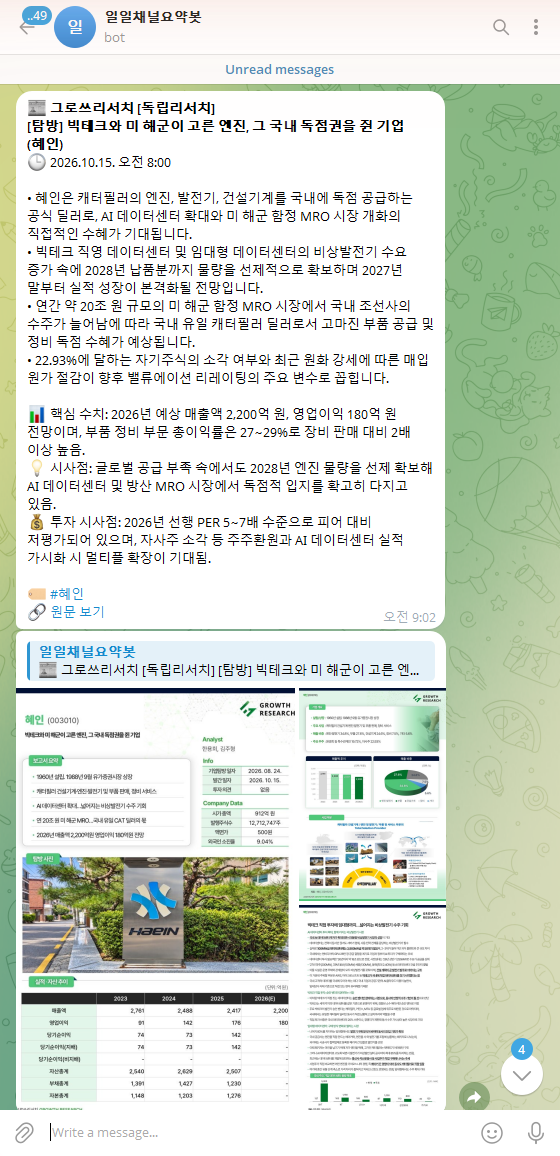
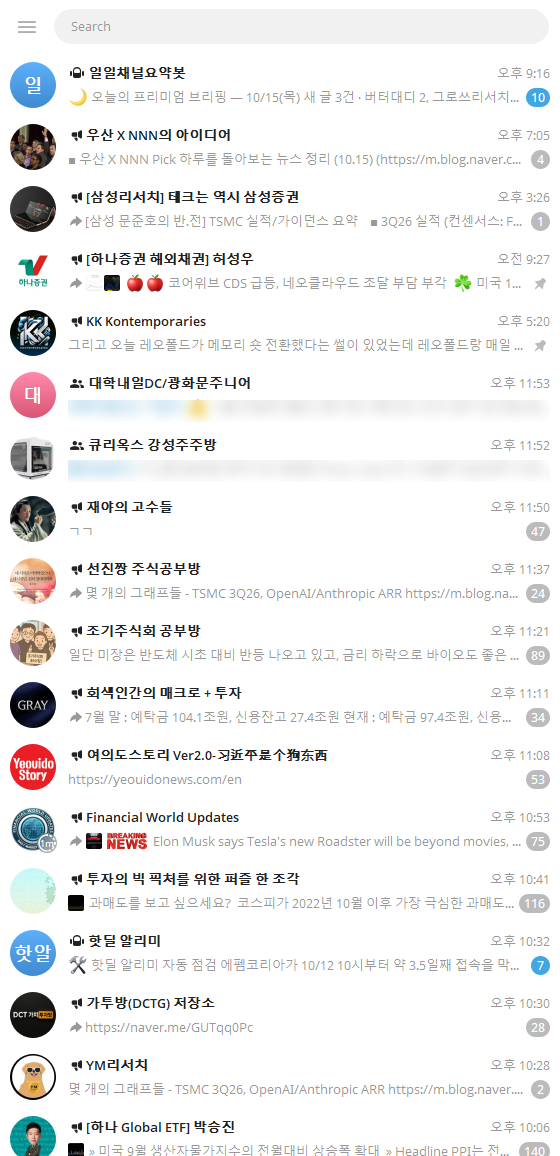
출근길 캡처 확대(채널 목록·글 목록 스크롤), 빈 장 채우기, 4부 요약봇 장 추가

diff --git a/slides.html b/slides.html
@@ -326,6 +326,69 @@ ul.bad li::before{background:var(--up)}
 .video .screen iframe{position:absolute;inset:0;width:100%;height:100%;border:0;border-radius:18px}
 
 /* 화면 클릭 안내 */
+/* 빈 공간 줄이기: 카드가 남는 높이를 채우고 글자를 키움 */
+.grow.grid2,.grow.grid3,.grow.grid4,.phases.grow,.axes.grow,.asks.grow{align-content:stretch!important}
+.grow>.card{justify-content:center;gap:18px;padding:40px 44px}
+.card h3{font-size:40px}
+.card p{font-size:30px}
+.card ul.clean li{font-size:30px}
+.card .ico.xl,.ph .ico.xl{width:88px;height:88px;padding:18px;border-radius:20px}
+.role .n{font-size:26px}
+.phases .ph{justify-content:center;gap:22px}
+.phases .ph .ico.xl{width:96px;height:96px}
+.phases .when{font-size:32px}
+.bigq h3{font-size:46px}
+.guests{grid-template-columns:repeat(5,120px);gap:20px}
+.guests .g{width:120px;height:120px;font-size:48px}
+.rules ul.clean li{font-size:32px}
+.flow.big3{flex:1;align-items:stretch;align-content:stretch;grid-template-rows:1fr}
+.flow.big3 .step{display:flex;flex-direction:column;align-items:center;justify-content:center;text-align:center;gap:16px}
+.flow.big3 .step .n{width:96px;height:96px;font-size:40px}
+.flow.big3 .step b{font-size:40px}
+.flow.big3 .step span{font-size:26px;line-height:1.45}
+.stmt h1{font-size:64px}
+.flow.big3 .step{padding:40px 32px;grid-template-columns:64px 1fr;row-gap:10px}
+.flow.big3 .step .n{width:64px;height:64px;font-size:28px}
+.flow.big3 .step b{font-size:36px}
+.flow.big3 .step span{font-size:24px}
+.have{font-size:34px;padding:18px 0}
+.tile{font-size:28px;padding:24px}
+.tiles{gap:18px;flex:1;align-content:stretch}
+.axis{justify-content:center}
+.asks .bubble{font-size:30px;padding:22px 28px}
+.asks .col{justify-content:center}
+.chat .bub{font-size:48px}
+.prompt{font-size:24px}
+/* 강조 문장 장: 오른쪽 큰 그림 */
+.stmt{padding-right:640px}
+.stmt .deco{position:absolute;right:120px;top:50%;width:440px;height:440px;margin-top:-250px;border-radius:50%;background:var(--card);border:1px solid var(--line);display:flex;align-items:center;justify-content:center}
+.stmt .deco .ico{width:220px;height:220px;color:var(--up)}
+.stmt .deco .ico svg{stroke-width:1.4}
+/* 출근길 */
+.commute{gap:48px}
+.commute .text{gap:30px}
+.commute ul.clean li{font-size:28px}
+.commute .phones{gap:40px}
+.phone .scr{width:340px;height:700px;border-radius:44px}
+.phone .scr img{border-radius:32px}
+.phone .scr.reel img{height:auto;object-fit:initial;animation:reel 45s ease-in-out 1s infinite alternate}
+@keyframes reel{from{transform:translateY(0)}to{transform:translateY(var(--reel,-1200px))}}
+@media (prefers-reduced-motion:reduce){.phone .scr.reel img{animation:none}}
+/* 요약봇 */
+.botslide{flex-direction:row;align-items:center;gap:72px}
+.botslide .left{flex:1;display:flex;flex-direction:column;gap:28px;min-width:0}
+.pipe{display:flex;flex-direction:column;gap:6px}
+.pp{display:flex;align-items:center;gap:22px;background:var(--card);border:1px solid var(--line);border-radius:14px;padding:20px 26px}
+.pp.hot{border:2px solid var(--up)}
+.pp>div{display:flex;flex-direction:column;gap:4px}
+.pp b{font-size:30px}
+.pp span:not(.ico){font-size:22px;color:var(--muted)}
+.pp .ico{color:var(--down)}
+.pp .ico.up{color:var(--up)}
+.arr{font-size:28px;color:var(--muted);text-align:center;line-height:1}
+.botslide .phone .scr{position:relative;width:310px;height:620px}
+.hl-row{position:absolute;left:10px;right:10px;top:36px;height:32px;border:4px solid var(--up);border-radius:14px;box-shadow:0 0 0 9999px rgba(13,27,46,.35)}
+
 .help{position:fixed;left:16px;bottom:12px;font:13px var(--sans);color:#6F7F96;opacity:.8;user-select:none}
 @media (prefers-reduced-motion:no-preference){ .slide.on{animation:in .25s ease-out} @keyframes in{from{opacity:.4}to{opacity:1}} }
 </style>
@@ -398,16 +461,16 @@ ul.bad li::before{background:var(--up)}
 <section class="slide commute" data-part="1부 · PB의 하루">
   <div class="text">
     <div class="kicker">출근길</div>
-    <h2>지하철에서 이미<br>시장 공부가 시작됩니다</h2>
+    <h2>지하철에서 이미<br>시장 공부가<br>시작됩니다</h2>
     <ul class="clean">
-      <li>텔레그램 채널로 밤사이 해외 증시와 뉴스 정리</li>
-      <li>버터대디 네이버 프리미엄콘텐츠로 시장 흐름 읽기</li>
+      <li>구독 중인 텔레그램 채널 수십 곳에 밤사이 쌓인 메시지를 훑습니다</li>
+      <li>버터대디 네이버 프리미엄콘텐츠로 시장 흐름을 읽습니다</li>
       <li>오늘 고객에게 보낼 시황 문자의 재료를 모읍니다</li>
     </ul>
   </div>
   <div class="phones">
-    <figure class="phone"><div class="scr"><img src="images/telegram.png" alt="텔레그램 채널 화면" onerror="this.parentNode.classList.add('missing')"><span class="ph-miss">텔레그램 캡처<br><small>images/telegram.png</small></span></div><figcaption>텔레그램 · 일일채널요약봇</figcaption></figure>
-    <figure class="phone"><div class="scr"><img src="images/nepcon.png" alt="버터대디 네이버 프리미엄콘텐츠 화면" onerror="this.parentNode.classList.add('missing')"><span class="ph-miss">네프콘 캡처<br><small>images/nepcon.png</small></span></div><figcaption>버터대디 · 네프콘</figcaption></figure>
+    <figure class="phone"><div class="scr"><img src="images/telegram.png" alt="텔레그램 구독 채널 목록" onerror="this.parentNode.classList.add('missing')"><span class="ph-miss">텔레그램 캡처<br><small>images/telegram.png</small></span></div><figcaption>텔레그램 · 구독 채널 목록</figcaption></figure>
+    <figure class="phone"><div class="scr reel"><img src="images/nepcon.jpg" alt="버터대디 네이버 프리미엄콘텐츠 글 목록" onerror="this.parentNode.classList.add('missing')"><span class="ph-miss">네프콘 캡처<br><small>images/nepcon.jpg</small></span></div><figcaption>버터대디 · 네이버 프리미엄콘텐츠</figcaption></figure>
   </div>
 </section>
 
@@ -434,10 +497,11 @@ ul.bad li::before{background:var(--up)}
 </section>
 
 <!-- 8. 영업력 -->
-<section class="slide" data-part="1부 · PB의 하루" style="justify-content:center">
+<section class="slide stmt" data-part="1부 · PB의 하루" style="justify-content:center" data-stmt>
   <div class="kicker">이 일에 가장 필요한 것</div>
   <h1>PB에게 가장 필요한 건<br><span style="color:var(--up)">영업력</span>입니다</h1>
   <p class="lead">그럼 영업력이란 무엇일까요?</p>
+  <div class="deco" aria-hidden="true"><span class="ico" data-icon="handshake"></span></div>
 </section>
 
 <!-- 8-1. 팀장님 메시지 -->
@@ -647,10 +711,11 @@ ul.bad li::before{background:var(--up)}
 </section>
 
 <!-- 16. 한 가지 -->
-<section class="slide" data-part="3부 · 불합격 인턴" style="justify-content:center">
+<section class="slide stmt" data-part="3부 · 불합격 인턴" style="justify-content:center" data-stmt>
   <div class="kicker">불합격하는 인턴의 특징</div>
   <h1>합격에 초점을 맞추는가,<br><span style="color:var(--up)">입사 후 성과</span>에 초점을 맞추는가</h1>
   <p class="lead">그리고 이 차이는 인턴이 던지는 질문을 들어 보면 바로 보입니다.</p>
+  <div class="deco" aria-hidden="true"><span class="ico" data-icon="fork"></span></div>
 </section>
 
 <!-- 17. 질문 비교 -->
@@ -684,10 +749,11 @@ ul.bad li::before{background:var(--up)}
 </section>
 
 <!-- 19. 정리 -->
-<section class="slide" data-part="3부 · 불합격 인턴" style="justify-content:center">
+<section class="slide stmt" data-part="3부 · 불합격 인턴" style="justify-content:center" data-stmt>
   <div class="kicker">인턴을 앞둔 분들께</div>
   <h1>"어떻게 붙어요?" 대신<br><span style="color:var(--down)">"어떻게 잘해요?"</span>를 물어보세요</h1>
   <p class="lead">그 질문을 하는 순간, 이미 직원처럼 보이기 시작합니다.</p>
+  <div class="deco" aria-hidden="true"><span class="ico" data-icon="bubbles"></span></div>
 </section>
 
 <!-- 25. 4부 표지 -->
@@ -715,11 +781,28 @@ ul.bad li::before{background:var(--up)}
   <div class="chart grow"><svg id="aiChart" role="img" aria-label="업무별 소요 시간 비교"></svg></div>
 </section>
 
+<!-- 27-1. 요약봇 -->
+<section class="slide botslide" data-part="4부 · AI 활용">
+  <div class="left">
+    <div class="kicker">제가 만든 AI 비서</div>
+    <h2>출근길에 보던 텔레그램,<br>사실 AI가 정리해 줍니다</h2>
+    <div class="pipe">
+      <div class="pp"><span class="ico lg" data-icon="doc"></span><div><b>네이버 프리미엄콘텐츠</b><span>구독 중인 리서치 채널 4곳의 새 글</span></div></div>
+      <div class="arr" aria-hidden="true">↓</div>
+      <div class="pp hot"><span class="ico lg up" data-icon="spark"></span><div><b>AI가 요약</b><span>핵심 내용과 언급된 종목을 정리</span></div></div>
+      <div class="arr" aria-hidden="true">↓</div>
+      <div class="pp"><span class="ico lg" data-icon="phone"></span><div><b>텔레그램으로 도착</b><span>1시간마다 새 글 · 매일 밤 9시 종합 브리핑 · 토요일 주간 레터 재료</span></div></div>
+    </div>
+  </div>
+  <figure class="phone"><div class="scr"><img src="images/telegram.png" alt="텔레그램 목록 맨 위의 일일채널요약봇" onerror="this.parentNode.classList.add('missing')"><i class="hl-row"></i><span class="ph-miss">텔레그램 캡처</span></div><figcaption>맨 위 '일일채널요약봇'</figcaption></figure>
+</section>
+
 <!-- 28. 이 화면도 -->
-<section class="slide" data-part="4부 · AI 활용" style="justify-content:center">
+<section class="slide stmt" data-part="4부 · AI 활용" style="justify-content:center" data-stmt>
   <div class="kicker">그리고 하나 더</div>
   <h1>지금 보고 계신 이 슬라이드,<br>여러분 휴대폰의 강의 페이지,<br>익명 질문 게시판까지</h1>
   <p class="lead" style="font-size:36px;color:var(--ink)"><b style="color:var(--up)">전부 AI와 대화하면서 만들었습니다.</b> 제가 한 일은 원하는 구성을 말로 설명하고, 결과를 보고 고쳐 달라고 한 것입니다.</p>
+  <div class="deco" aria-hidden="true"><span class="ico" data-icon="devices"></span></div>
 </section>
 
 <!-- 29. 취업 준비에 쓰는 법 -->
@@ -805,11 +888,22 @@ const ICONS = {
   globe: '<circle cx="12" cy="12" r="9"/><path d="M3 12h18"/><path d="M12 3c2.5 2.5 3.8 5.5 3.8 9s-1.3 6.5-3.8 9c-2.5-2.5-3.8-5.5-3.8-9S9.5 5.5 12 3z"/>',
   card: '<rect x="3" y="6" width="18" height="12" rx="2"/><circle cx="8" cy="12" r="2"/><path d="M13 10h5M13 14h3.5"/>',
   pin: '<path d="M12 21s-7-6.2-7-11.5a7 7 0 0 1 14 0C19 14.8 12 21 12 21z"/><circle cx="12" cy="9.5" r="2.5"/>',
-  flag: '<path d="M5 21V4"/><path d="M5 4h12l-2 4 2 4H5"/>'
+  flag: '<path d="M5 21V4"/><path d="M5 4h12l-2 4 2 4H5"/>',
+  handshake: '<path d="M2 11l4-4 4 2 3-2 3 1 6 4"/><path d="M2 11l3 3"/><path d="M22 12l-3 3"/><path d="M8 14l2 2a1.4 1.4 0 0 0 2-2"/><path d="M10 12l3 3a1.4 1.4 0 0 0 2-2l-3-3"/><path d="M13 11l3 3a1.4 1.4 0 0 0 2-2l-3-3"/><path d="M5 14l3 3a1.4 1.4 0 0 0 2-2"/>',
+  fork: '<circle cx="6" cy="19" r="2"/><circle cx="6" cy="5" r="2"/><circle cx="18" cy="7" r="2"/><path d="M6 7v10"/><path d="M18 9c0 5-12 3-12 8"/>',
+  bubbles: '<path d="M3 4h12v8H8l-4 3v-3H3z"/><path d="M9 15v1h7l4 3v-3h1V8h-3"/>',
+  devices: '<rect x="2" y="4" width="15" height="11" rx="1.5"/><path d="M1 18h17"/><rect x="17" y="8" width="6" height="12" rx="1.2"/><path d="M19.5 17.5h1"/>'
 };
 document.querySelectorAll('[data-icon]').forEach(el => {
   el.innerHTML = `<svg viewBox="0 0 24 24" aria-hidden="true">${ICONS[el.dataset.icon] || ''}</svg>`;
 });
+
+/* 휴대폰 화면 안 긴 캡처를 천천히 스크롤 */
+document.querySelectorAll('.scr.reel img').forEach(img => {
+  const set = () => { const d = img.offsetHeight - img.parentNode.clientHeight + 28; if (d > 0) img.style.setProperty('--reel', `-${d}px`); };
+  img.complete ? set() : img.addEventListener('load', set);
+});
+addEventListener('resize', () => document.querySelectorAll('.scr.reel img').forEach(i => i.dispatchEvent(new Event('load'))));
 
 /* 방문한 지점 30곳 = 명함 30장 */
 document.querySelectorAll('.cards30').forEach(el => { el.innerHTML = '<i></i>'.repeat(30); });
